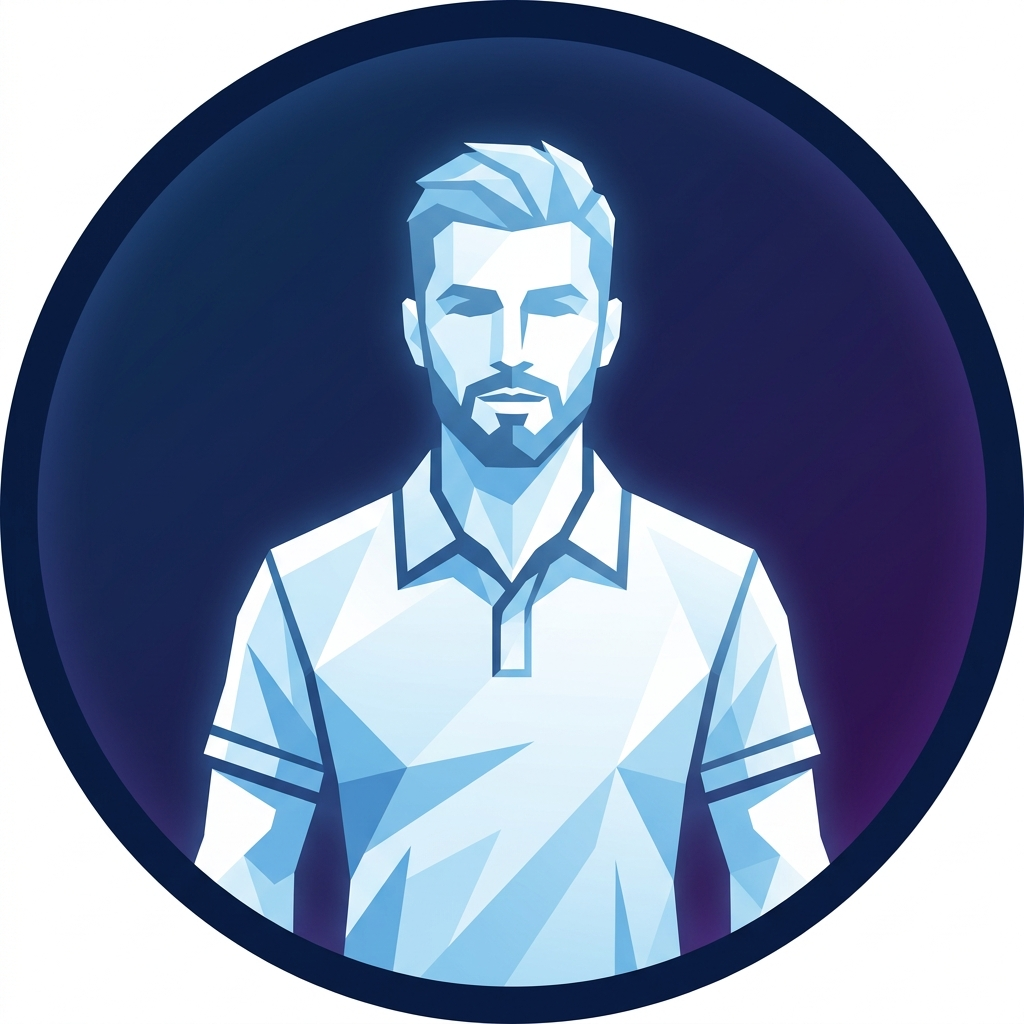
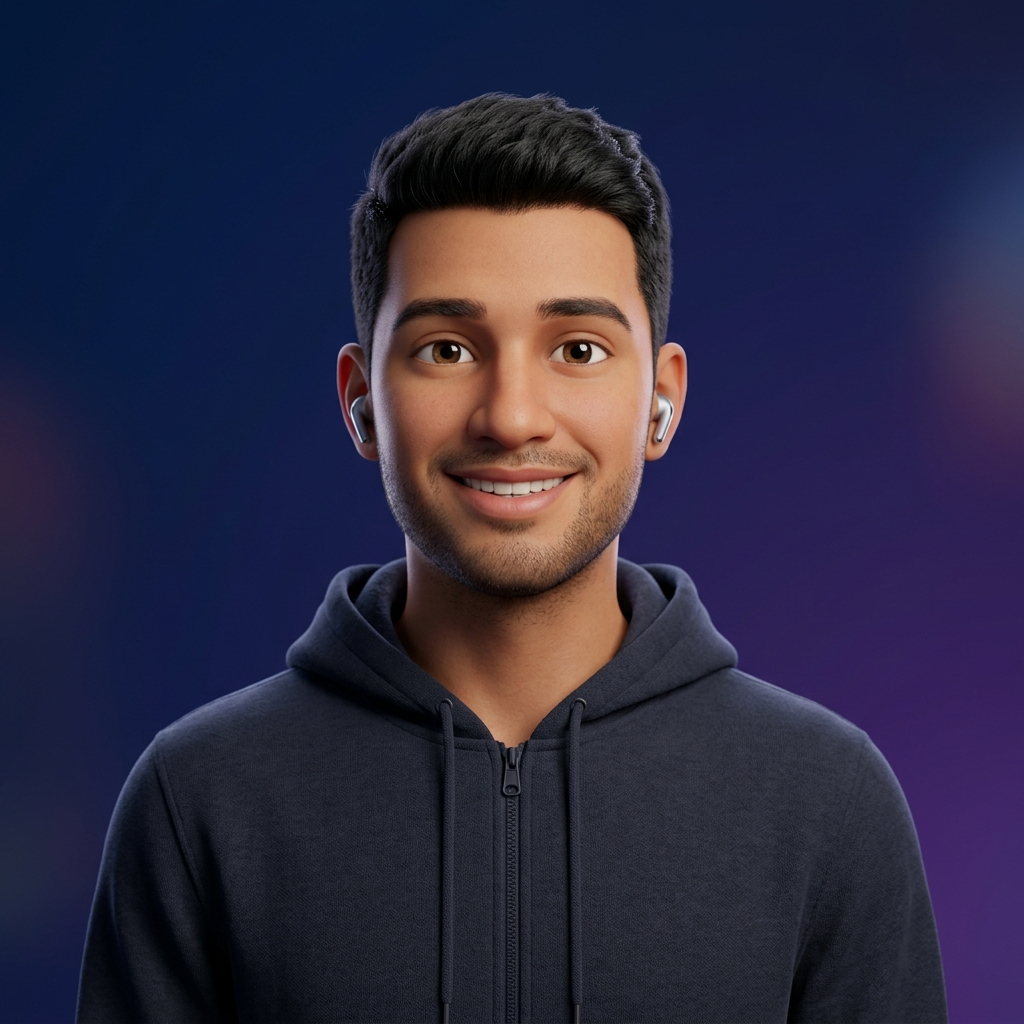
Update portfolio assets, brand, and projects section

diff --git a/style.css b/style.css
@@ -800,6 +800,124 @@ img { max-width: 100%; display: block; }
 }
 
 /* ============================================
+   PUBLISHED APPS / PROJECTS SECTION
+   ============================================ */
+.projects-grid {
+  display: grid;
+  grid-template-columns: repeat(2, 1fr);
+  gap: 1rem;
+}
+
+.project-card {
+  display: flex;
+  align-items: center;
+  gap: 1rem;
+  padding: 1.25rem 1.5rem;
+  background: var(--bg-card);
+  border: 1px solid var(--glass-border);
+  border-radius: var(--radius-md);
+  backdrop-filter: blur(12px);
+  transition: all 0.35s var(--ease-out);
+  cursor: pointer;
+  text-decoration: none;
+  color: inherit;
+}
+
+.project-card:hover {
+  background: var(--bg-card-hover);
+  border-color: rgba(99, 102, 241, 0.3);
+  transform: translateY(-4px);
+  box-shadow: 0 12px 40px rgba(99, 102, 241, 0.1);
+}
+
+.project-icon {
+  width: 50px;
+  height: 50px;
+  display: flex;
+  align-items: center;
+  justify-content: center;
+  border-radius: var(--radius-md);
+  background: rgba(99, 102, 241, 0.1);
+  font-size: 1.4rem;
+  flex-shrink: 0;
+  overflow: hidden;
+}
+
+.project-icon img {
+  width: 100%;
+  height: 100%;
+  object-fit: cover;
+}
+
+.project-info {
+  flex: 1;
+  min-width: 0;
+}
+
+.project-title {
+  font-family: 'Outfit', sans-serif;
+  font-size: 1rem;
+  font-weight: 700;
+  color: var(--text-primary);
+  margin-bottom: 0.3rem;
+}
+
+.project-desc {
+  font-size: 0.82rem;
+  color: var(--text-muted);
+  line-height: 1.5;
+  margin-bottom: 0.5rem;
+  display: -webkit-box;
+  -webkit-line-clamp: 2;
+  -webkit-box-orient: vertical;
+  overflow: hidden;
+}
+
+.project-meta {
+  display: flex;
+  gap: 0.5rem;
+  align-items: center;
+  flex-wrap: wrap;
+}
+
+.project-company {
+  font-size: 0.72rem;
+  font-weight: 600;
+  color: var(--accent-2);
+  background: rgba(139, 92, 246, 0.12);
+  padding: 0.15rem 0.5rem;
+  border-radius: 100px;
+}
+
+.project-badge {
+  font-size: 0.72rem;
+  font-weight: 500;
+  color: var(--text-muted);
+  background: rgba(255, 255, 255, 0.05);
+  padding: 0.15rem 0.5rem;
+  border-radius: 100px;
+  border: 1px solid var(--glass-border);
+}
+
+.project-arrow {
+  font-size: 1.2rem;
+  color: var(--text-muted);
+  transition: all 0.3s var(--ease-out);
+  flex-shrink: 0;
+}
+
+.project-card:hover .project-arrow {
+  color: var(--accent-2);
+  transform: translateX(4px);
+}
+
+@media (max-width: 768px) {
+  .projects-grid {
+    grid-template-columns: 1fr;
+  }
+}
+
+/* ============================================
    EDUCATION & CERTIFICATES SECTION
    ============================================ */
 .edu-grid {
@@ -1102,6 +1220,10 @@ img { max-width: 100%; display: block; }
   }
 
   .edu-grid {
+    grid-template-columns: 1fr;
+  }
+
+  .projects-grid {
     grid-template-columns: 1fr;
   }
 

diff --git a/index.html b/index.html
@@ -28,11 +28,12 @@
        ============================================ -->
   <nav class="navbar" id="navbar">
     <div class="container">
-      <a href="#hero" class="nav-logo">AR.</a>
+      <a href="#hero" class="nav-logo">AHMED.</a>
       <ul class="nav-links" id="nav-links">
         <li><a href="#about">About</a></li>
         <li><a href="#experience">Experience</a></li>
         <li><a href="#skills">Skills</a></li>
+        <li><a href="#projects">Projects</a></li>
         <li><a href="#education">Education</a></li>
         <li><a href="#contact">Contact</a></li>
       </ul>
@@ -370,6 +371,109 @@
         <span class="tech-tag">🔄 GetX</span>
         <span class="tech-tag">🏗️ Provider</span>
         <span class="tech-tag">🌐 REST APIs</span>
+      </div>
+    </div>
+  </section>
+
+  <!-- ============================================
+       PUBLISHED APPS / PROJECTS SECTION
+       ============================================ -->
+  <section class="section" id="projects">
+    <div class="container">
+      <span class="section-label reveal">Published Apps</span>
+      <h2 class="section-title reveal reveal-delay-1">Apps on Google Play Store</h2>
+      <p class="about-text reveal reveal-delay-2" style="max-width: 680px; margin-bottom: 2.5rem;">
+        Here are the mobile applications I've built and published on the Google Play Store under my developer account <strong>AppFable</strong>.
+      </p>
+
+      <div class="projects-grid">
+        <!-- App 1 -->
+        <a href="https://play.google.com/store/apps/dev?id=5685948025417097382" target="_blank" rel="noopener" class="project-card reveal reveal-delay-1">
+          <div class="project-icon">
+            <img src="assets/carapp.png" alt="AI Car Modify Icon">
+          </div>
+          <div class="project-info">
+            <h3 class="project-title">AI Car Modify - Design Car</h3>
+            <p class="project-desc">AI-powered app to modify and customize car designs with stunning visual transformations.</p>
+            <div class="project-meta">
+              <span class="project-company">AppFable</span>
+              <span class="project-badge">AI / Design</span>
+            </div>
+          </div>
+          <div class="project-arrow">→</div>
+        </a>
+
+        <!-- App 2 -->
+        <a href="https://play.google.com/store/apps/dev?id=5685948025417097382" target="_blank" rel="noopener" class="project-card reveal reveal-delay-2">
+          <div class="project-icon">
+            <img src="assets/aiapp.png" alt="Chatbot AI Icon">
+          </div>
+          <div class="project-info">
+            <h3 class="project-title">Chatbot AI - Ask AI and Solve</h3>
+            <p class="project-desc">Intelligent AI chatbot assistant for solving queries, writing content, and general assistance.</p>
+            <div class="project-meta">
+              <span class="project-company">AppFable</span>
+              <span class="project-badge">AI / Productivity</span>
+            </div>
+          </div>
+          <div class="project-arrow">→</div>
+        </a>
+
+        <!-- App 3 -->
+        <a href="https://play.google.com/store/apps/dev?id=5685948025417097382" target="_blank" rel="noopener" class="project-card reveal reveal-delay-3">
+          <div class="project-icon">
+            <img src="assets/tattoapp.png" alt="Tattoo Maker AI Icon">
+          </div>
+          <div class="project-info">
+            <h3 class="project-title">Tattoo Design: Tattoo Maker AI</h3>
+            <p class="project-desc">AI-driven tattoo design tool to create, preview, and customize unique tattoo artwork.</p>
+            <div class="project-meta">
+              <span class="project-company">AppFable</span>
+              <span class="project-badge">AI / Creative</span>
+            </div>
+          </div>
+          <div class="project-arrow">→</div>
+        </a>
+
+        <!-- App 4 -->
+        <a href="https://play.google.com/store/apps/dev?id=5685948025417097382" target="_blank" rel="noopener" class="project-card reveal reveal-delay-4">
+          <div class="project-icon">
+            <img src="assets/homeapp.png" alt="Home Decor AI Icon">
+          </div>
+          <div class="project-info">
+            <h3 class="project-title">Home Decor AI: Room Planner</h3>
+            <p class="project-desc">AI-powered room designer and interior decorator to visualize furniture placement and design styles.</p>
+            <div class="project-meta">
+              <span class="project-company">AppFable</span>
+              <span class="project-badge">AI / Design</span>
+            </div>
+          </div>
+          <div class="project-arrow">→</div>
+        </a>
+
+        <!-- App 5 -->
+        <a href="https://play.google.com/store/apps/dev?id=5685948025417097382" target="_blank" rel="noopener" class="project-card reveal reveal-delay-5">
+          <div class="project-icon">
+            <img src="assets/crypto.png" alt="Crypto AI Icon">
+          </div>
+          <div class="project-info">
+            <h3 class="project-title">Crypto AI Trading Signals</h3>
+            <p class="project-desc">Position calculator, Risk/Reward ratio tools, and trading journal for crypto, forex, and gold markets.</p>
+            <div class="project-meta">
+              <span class="project-company">AppFable</span>
+              <span class="project-badge">Finance / AI</span>
+            </div>
+          </div>
+          <div class="project-arrow">→</div>
+        </a>
+      </div>
+
+      <!-- Play Store Links -->
+      <div style="display: flex; gap: 1rem; margin-top: 2.5rem; flex-wrap: wrap;" class="reveal reveal-delay-2">
+        <a href="https://play.google.com/store/apps/dev?id=5685948025417097382" target="_blank" rel="noopener" class="btn btn-primary">
+          <svg width="18" height="18" viewBox="0 0 24 24" fill="none" stroke="currentColor" stroke-width="2"><polygon points="5 3 19 12 5 21 5 3"></polygon></svg>
+          View AppFable on Play Store
+        </a>
       </div>
     </div>
   </section>